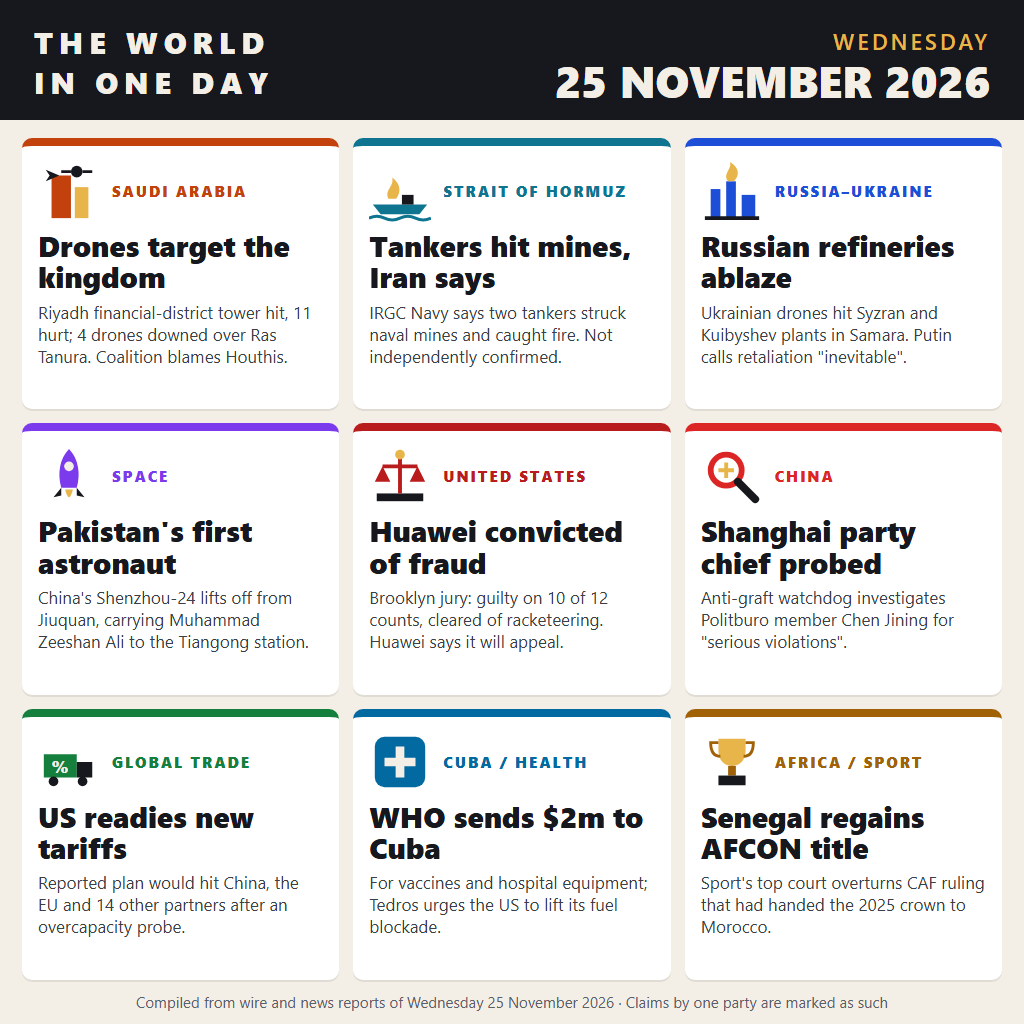
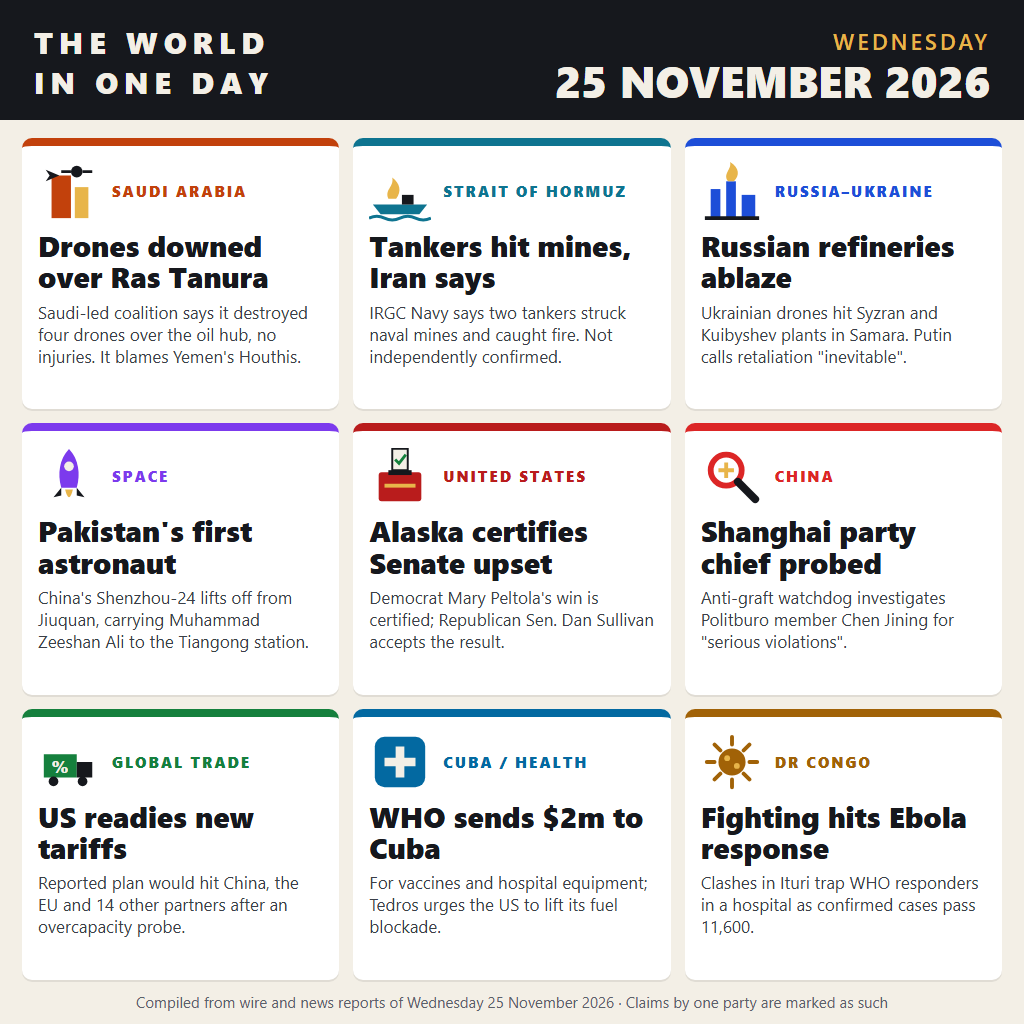
Swap three 24 Nov stories for ones first reported on 25 Nov

Changed region(s): [[0.6875, 0.7188, 0.9688, 0.9375], [0.3438, 0.4375, 0.625, 0.6562], [0.0312, 0.2188, 0.3125, 0.375]]

diff --git a/source/news.html b/source/news.html
@@ -51,8 +51,8 @@
       <svg viewBox="0 0 64 64"><rect x="14" y="16" width="20" height="44" fill="#c2410c"/><rect x="38" y="28" width="14" height="32" fill="#e8b54a"/><path d="M8 10 l14 6 -14 6 4 -6z" fill="#16181d"/><circle cx="40" cy="12" r="6" fill="#16181d"/><path d="M34 12 h-10 M46 12 h10" stroke="#16181d" stroke-width="3"/></svg>
       <span class="tag">SAUDI ARABIA</span>
     </div>
-    <h2>Drones target the kingdom</h2>
-    <p>Riyadh financial-district tower hit, 11 hurt; 4 drones downed over Ras Tanura. Coalition blames Houthis.</p>
+    <h2>Drones downed over Ras Tanura</h2>
+    <p>Saudi-led coalition says it destroyed four drones over the oil hub, no injuries. It blames Yemen's Houthis.</p>
   </section>
 
   <section class="card" style="--c:#0e7490">
@@ -84,11 +84,11 @@
 
   <section class="card" style="--c:#b91c1c">
     <div class="top">
-      <svg viewBox="0 0 64 64"><rect x="8" y="50" width="48" height="8" fill="#16181d"/><path d="M14 22 h36 M32 10 v40" stroke="#b91c1c" stroke-width="4"/><path d="M14 22 l-8 16 h16z M50 22 l-8 16 h16z" fill="#b91c1c"/><circle cx="32" cy="10" r="5" fill="#e8b54a"/></svg>
+      <svg viewBox="0 0 64 64"><rect x="10" y="28" width="44" height="30" rx="3" fill="#b91c1c"/><rect x="20" y="26" width="24" height="5" fill="#16181d"/><path d="M24 4 h16 v22 h-16z" fill="#f3efe6" stroke="#16181d" stroke-width="2"/><path d="M27 15 l4 4 7 -9" stroke="#15803d" stroke-width="3" fill="none"/><rect x="16" y="40" width="32" height="4" fill="#e8b54a"/></svg>
       <span class="tag">UNITED STATES</span>
     </div>
-    <h2>Huawei convicted of fraud</h2>
-    <p>Brooklyn jury: guilty on 10 of 12 counts, cleared of racketeering. Huawei says it will appeal.</p>
+    <h2>Alaska certifies Senate upset</h2>
+    <p>Democrat Mary Peltola's win is certified; Republican Sen. Dan Sullivan accepts the result.</p>
   </section>
 
   <section class="card" style="--c:#dc2626">
@@ -120,11 +120,11 @@
 
   <section class="card" style="--c:#a16207">
     <div class="top">
-      <svg viewBox="0 0 64 64"><path d="M18 8 h28 v12 c0 10 -6 16 -14 16 s-14 -6 -14 -16z" fill="#e8b54a"/><path d="M18 12 h-8 c0 10 4 14 10 14 M46 12 h8 c0 10 -4 14 -10 14" stroke="#a16207" stroke-width="3" fill="none"/><rect x="28" y="36" width="8" height="10" fill="#a16207"/><rect x="18" y="46" width="28" height="10" fill="#16181d"/></svg>
-      <span class="tag">AFRICA / SPORT</span>
+      <svg viewBox="0 0 64 64"><circle cx="32" cy="32" r="14" fill="#a16207"/><g stroke="#a16207" stroke-width="4" stroke-linecap="round"><path d="M32 6 v8 M32 50 v8 M6 32 h8 M50 32 h8 M14 14 l6 6 M44 44 l6 6 M50 14 l-6 6 M14 50 l6 -6"/></g><circle cx="27" cy="28" r="3" fill="#e8b54a"/><circle cx="37" cy="36" r="3" fill="#e8b54a"/></svg>
+      <span class="tag">DR CONGO</span>
     </div>
-    <h2>Senegal regains AFCON title</h2>
-    <p>Sport's top court overturns CAF ruling that had handed the 2025 crown to Morocco.</p>
+    <h2>Fighting hits Ebola response</h2>
+    <p>Clashes in Ituri trap WHO responders in a hospital as confirmed cases pass 11,600.</p>
   </section>
 
 </main>
